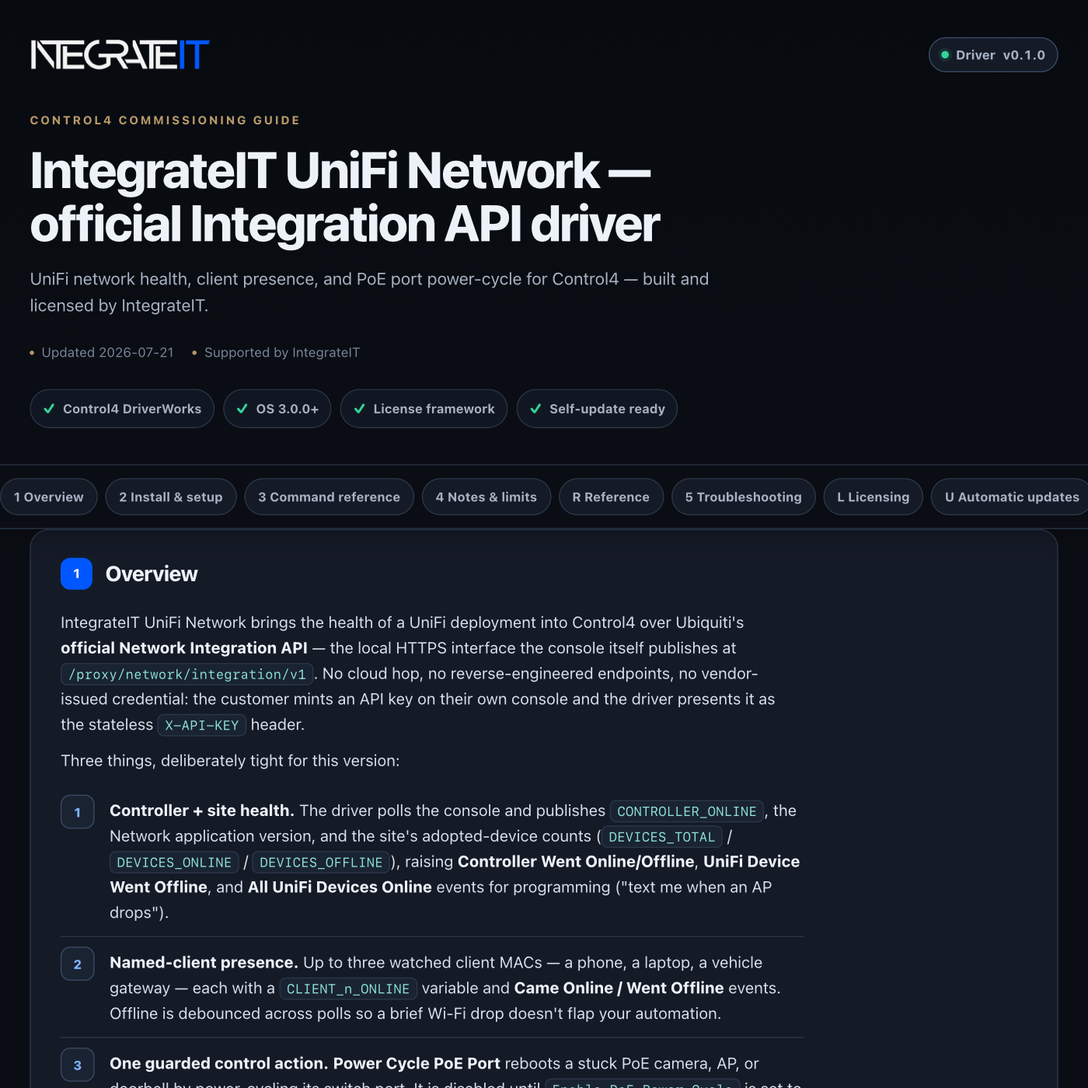
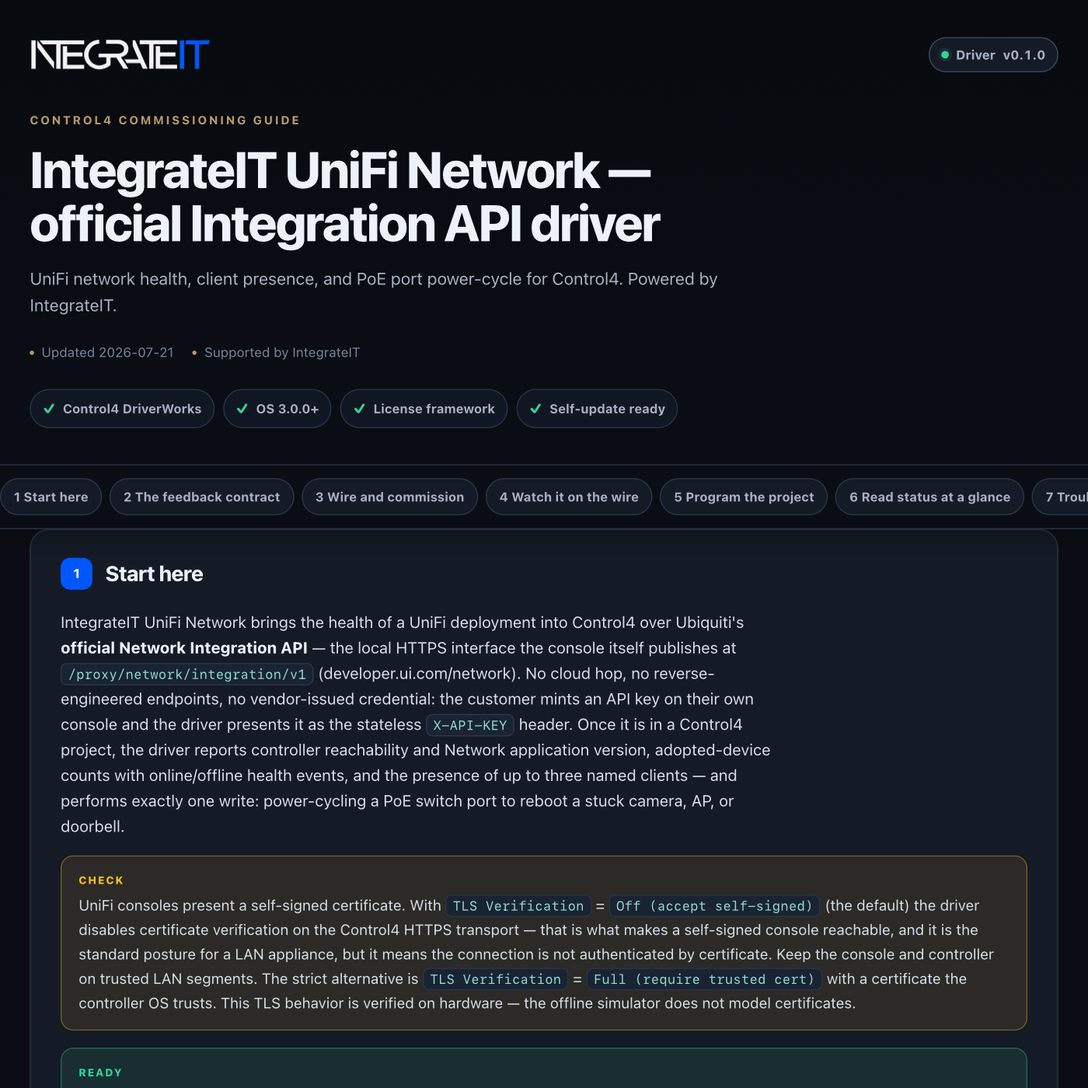
control4: publish driver channel (integrateit_unifi_network 0.1.1)

diff --git a/control4/integrateit_unifi_network/documentation.html b/control4/integrateit_unifi_network/documentation.html
@@ -179,13 +179,13 @@ td code{white-space:normal}
     <div class="wrap">
       <div class="brandbar">
[1 lines of base64/hex data omitted]
-        <span class="version"><span class="word">Driver</span> v0.1.0</span>
+        <span class="version"><span class="word">Driver</span> v0.1.1</span>
       </div>
       <p class="eyebrow">Control4 commissioning guide</p>
       <h1>IntegrateIT UniFi Network — official Integration API driver</h1>
-      <p class="sub">UniFi network health, client presence, and PoE port power-cycle for Control4 — built and licensed by IntegrateIT.</p>
+      <p class="sub">UniFi network health, client presence, and PoE port power-cycle for Control4. Powered by IntegrateIT.</p>
       <div class="meta">
-        <span>Updated 2026-07-21</span>
+        <span>Updated 2026-07-26</span>
         <span>Supported by IntegrateIT</span>
       </div>
       <div class="readiness" aria-label="Driver capabilities">
@@ -198,56 +198,130 @@ td code{white-space:normal}
   </header>
 
   <div class="toc-wrap">
-    <nav class="toc wrap" aria-label="Documentation sections"><a href="#overview">1 Overview</a><a href="#install">2 Install &amp; setup</a><a href="#commands">3 Command reference</a><a href="#notes">4 Notes &amp; limits</a><a href="#reference">R Reference</a><a href="#troubleshooting">5 Troubleshooting</a><a href="#licensing">L Licensing</a><a href="#updates">U Automatic updates</a><a href="#changelog">V Version history</a></nav>
+    <nav class="toc wrap" aria-label="Documentation sections"><a href="#overview">1 Start here</a><a href="#feedback">2 The feedback contract</a><a href="#setup">3 Wire and commission</a><a href="#protocol">4 Watch it on the wire</a><a href="#programming">5 Program the project</a><a href="#status">6 Read status at a glance</a><a href="#troubleshooting">7 Troubleshoot methodically</a><a href="#trust">8 Ownership, privacy, and licensing</a><a href="#reference">R Reference</a><a href="#licensing">L Licensing</a><a href="#updates">U Automatic updates</a><a href="#changelog">V Version history</a></nav>
   </div>
 
   <main class="wrap">
     <section class="card" id="overview" data-card="overview">
-  <h2><span class="n">1</span> Overview</h2>
-  <p>IntegrateIT UniFi Network brings the health of a UniFi deployment into Control4 over Ubiquiti's <b>official Network Integration API</b> — the local HTTPS interface the console itself publishes at <code>/proxy/network/integration/v1</code>. No cloud hop, no reverse-engineered endpoints, no vendor-issued credential: the customer mints an API key on their own console and the driver presents it as the stateless <code>X-API-KEY</code> header.</p>
-  <p>Three things, deliberately tight for this version:</p>
-  <ol class="steps">
-    <li><b>Controller + site health.</b> The driver polls the console and publishes <code>CONTROLLER_ONLINE</code>, the Network application version, and the site's adopted-device counts (<code>DEVICES_TOTAL</code> / <code>DEVICES_ONLINE</code> / <code>DEVICES_OFFLINE</code>), raising <b>Controller Went Online/Offline</b>, <b>UniFi Device Went Offline</b>, and <b>All UniFi Devices Online</b> events for programming ("text me when an AP drops").</li>
-    <li><b>Named-client presence.</b> Up to three watched client MACs — a phone, a laptop, a vehicle gateway — each with a <code>CLIENT_n_ONLINE</code> variable and <b>Came Online / Went Offline</b> events. Offline is debounced across polls so a brief Wi-Fi drop doesn't flap your automation.</li>
-    <li><b>One guarded control action.</b> <b>Power Cycle PoE Port</b> reboots a stuck PoE camera, AP, or doorbell by power-cycling its switch port. It is disabled until <code>Enable PoE Power Cycle</code> is set to Yes, and it is the only write this driver ever performs.</li>
-  </ol>
+  <h2><span class="n">1</span> Start here</h2>
+  <p>IntegrateIT UniFi Network brings the health of a UniFi deployment into Control4 over Ubiquiti's <b>official Network Integration API</b> — the local HTTPS interface the console itself publishes at <code>/proxy/network/integration/v1</code> (developer.ui.com/network). No cloud hop, no reverse-engineered endpoints, no vendor-issued credential: the customer mints an API key on their own console and the driver presents it as the stateless <code>X-API-KEY</code> header. Once it is in a Control4 project, the driver reports controller reachability and Network application version, adopted-device counts with online/offline health events, and the presence of up to three named clients — and performs exactly one write: power-cycling a PoE switch port to reboot a stuck camera, AP, or doorbell.</p>
+  <div class="note warn">UniFi consoles present a self-signed certificate. With <code>TLS Verification</code> = <code>Off (accept self-signed)</code> (the default) the driver disables certificate verification on the Control4 HTTPS transport — that is what makes a self-signed console reachable, and it is the standard posture for a LAN appliance, but it means the connection is not authenticated by certificate. Keep the console and controller on trusted LAN segments. The strict alternative is <code>TLS Verification</code> = <code>Full (require trusted cert)</code> with a certificate the controller OS trusts. This TLS behavior is verified on hardware — the offline simulator does not model certificates.</div>
+  <div class="note good">Ready for controlled commissioning. The package, Lua runtime, Integration API framing, health and presence polling, pagination safety, the PoE write's guards, the license gate, and this documentation pass automated QA in the Control4 API simulator. A qualified dealer must still complete a fresh install and observe real reachability, device-health, presence, and PoE behavior against a physical UniFi console and controller — certificate handling in particular is a hardware-acceptance item. This driver has not been bench-tested on hardware.</div>
+  <p><b>What you get</b></p>
+  <ul>
+    <li>Controller reachability and Network application version from <code>GET /info</code>, with <b>Controller Went Online / Went Offline</b> events and a <code>CONTROLLER_ONLINE</code> variable</li>
+    <li>Site device health — <code>DEVICES_TOTAL</code> / <code>DEVICES_ONLINE</code> / <code>DEVICES_OFFLINE</code> counts — with <b>UniFi Device Went Offline</b> and <b>All UniFi Devices Online</b> edge events</li>
+    <li>Presence for up to three watched client MACs, each a <code>CLIENT_n_ONLINE</code> variable with <b>Came Online / Went Offline</b> events, debounced against brief Wi-Fi drops</li>
+    <li>One guarded control action, <b>Power Cycle PoE Port</b> — off by default, license-gated, and the only write this driver ever performs</li>
+    <li>Setup actions on the Actions tab: <b>Test Connection</b>, <b>List Sites</b>, <b>List Devices</b>, <b>List Clients</b>, <b>Print Configuration</b></li>
+    <li>A LAN-only destination safeguard, and an API key that lives only in the request header and is never written to the log</li>
+  </ul>
 </section>
 
-<section class="card" id="install" data-card="install">
-  <h2><span class="n">2</span> Install &amp; setup</h2>
+<section class="card" id="feedback" data-card="feedback">
+  <h2><span class="n">2</span> The feedback contract</h2>
+  <p>This driver reports what the console tells it and nothing more. State is polled, not pushed — the Integration API documents no push channel — so everything updates on the <code>Poll Interval (s)</code> (default 30 s), never instantly.</p>
+  <ul>
+    <li><b>Reachability is owned by <code>/info</code>.</b> Every cycle <code>GET /info</code> decides <code>CONTROLLER_ONLINE</code>; the heavier device and client polls only *confirm* reachability and never mark the console offline. Without that split, a console that answers <code>/info</code> but times out on the larger device list would flap <b>Controller Went Online / Offline</b> every poll.</li>
+    <li><b>Presence is asymmetric.</b> A watched MAC seen on the clients page reads online immediately. Offline is debounced: the client must be absent for <code>Offline After (polls)</code> consecutive polls before <b>Client n Went Offline</b> fires, so a phone's Wi-Fi power-save nap does not flap your automation.</li>
+    <li><b>One page per poll, and the driver holds rather than guesses.</b> Device and client scans read up to 200 entries (<code>limit=200</code>) — one page. On a site whose list exceeds one page, truncation is detected from the response envelope (<code>offset + count &lt; totalCount</code>) and the driver refuses to invent state: a watched client absent from the fetched page is <b>held at its last-known presence</b> (never false-declared offline), and device-health change events are suppressed until a full page is scanned again. The deliberate trade-off on such large sites is that a watched client which *truly* leaves may not raise <b>Went Offline</b> until it once again fits inside a single page. A client found on the page is trusted present regardless of truncation.</li>
+    <li><b>Reachability announces itself; the counters adopt silently.</b> The first <code>/info</code> answer after a driver start is a real transition, so it does fire <b>Controller Went Online</b> (or <b>Controller Went Offline</b>) — expect one on every driver reload. The offline-device count and each watched slot's presence are adopted from their first observation *without* an event, so no device-health or presence event phantom-fires at boot. Clearing a watched MAC drops its <code>CLIENT_n_ONLINE</code> to 0 and forgets its learned state.</li>
+  </ul>
+</section>
+
+<section class="card" id="setup" data-card="setup">
+  <h2><span class="n">3</span> Wire and commission</h2>
   <ol class="steps">
-    <li>On the customer's UniFi console, open the <b>Network</b> app → <b>Settings → Control Plane → Integrations</b> and generate an <b>API key</b>. The key inherits the permissions of the admin who creates it — a read-mostly admin is a good choice if you will not use the PoE action.</li>
-    <li>Add this driver, then enter <code>Console IP Address</code> (reserve it in DHCP), <code>Console Port</code> (443 on UniFi OS hardware, <b>11443 on UniFi OS Server</b>), and the <code>API Key</code>.</li>
-    <li>Run <b>Test Connection</b> — it prints the Network application version on success.</li>
+    <li>On the customer's UniFi console, open the <b>Network</b> app → <b>Settings → Control Plane → Integrations</b> and generate an <b>API key</b>. The key inherits the permissions of the admin who creates it — a read-mostly admin is a good choice unless you intend to use the PoE action.</li>
+    <li>Add <b>IntegrateIT UniFi Network</b> to the project. Enter <code>Console IP Address</code> (reserve it in DHCP), <code>Console Port</code> (<b>443</b> on UniFi OS hardware, <b>11443</b> on UniFi OS Server), and paste the <code>API Key</code>.</li>
+    <li>Run <b>Test Connection</b> from the Actions tab — on success it prints <code>OK - Network application &lt;version&gt;</code> and fills <code>Controller Version</code>.</li>
     <li>Run <b>List Sites</b> and paste the site's id into <code>Site ID</code> (most consoles have exactly one).</li>
-    <li>Optionally set <code>Watched Client 1..3 MAC</code> (run <b>List Clients</b> to find MACs) and tune <code>Poll Interval (s)</code> / <code>Offline After (polls)</code>.</li>
-    <li>For the PoE action: run <b>List Devices</b>, paste the switch's id into <code>PoE Switch Device ID</code>, set <code>PoE Port Number</code>, and flip <code>Enable PoE Power Cycle</code> to Yes.</li>
-    <li>Optionally enter a <code>License Key</code> (see Licensing) — the driver runs in Lenient mode without one.</li>
+    <li>Optionally set <code>Watched Client 1..3 MAC</code> (run <b>List Clients</b> to find MACs — colon, dash, or bare-hex forms all normalize) and tune <code>Poll Interval (s)</code> / <code>Offline After (polls)</code>.</li>
+    <li>For the PoE action only: run <b>List Devices</b>, paste the switch's id into <code>PoE Switch Device ID</code>, set <code>PoE Port Number</code>, and flip <code>Enable PoE Power Cycle</code> to Yes.</li>
+    <li>Optionally enter a <code>License Key</code> — the driver runs in Lenient mode without one (see Ownership).</li>
   </ol>
+  <p>The install proves itself when <code>Device Status</code> reads <code>Online — N/M devices up</code>, and — if you set a watched MAC — its <code>CLIENT_n_ONLINE</code> variable tracks the real device coming and going.</p>
+  <div class="note">API keys exist only on <b>UniFi OS consoles</b> (UDM / UDR / UCG / UX / UniFi OS Server). The legacy self-hosted Java controller has no Integration API and cannot be used, by Ubiquiti's design.</div>
 </section>
 
-<section class="card" id="commands" data-card="commands">
-  <h2><span class="n">3</span> Command reference</h2>
-  <ul>
-    <li><b>Power Cycle PoE Port</b> — sends the official <code>POWER_CYCLE</code> port action to the configured switch/port. Requires <code>Enable PoE Power Cycle</code> = Yes and a valid license; fires <b>PoE Port Power Cycled</b> on success.</li>
-    <li><b>Refresh Now</b> — polls the console immediately instead of waiting for the next interval.</li>
-  </ul>
-  <p><b>Events:</b> *Controller Went Online/Offline*, *UniFi Device Went Offline*, *All UniFi Devices Online*, *Client 1–3 Came Online / Went Offline*, *PoE Port Power Cycled*. <b>Variables:</b> <code>CONTROLLER_ONLINE</code>, <code>DEVICES_TOTAL</code>, <code>DEVICES_ONLINE</code>, <code>DEVICES_OFFLINE</code>, <code>CLIENT_1_ONLINE</code>, <code>CLIENT_2_ONLINE</code>, <code>CLIENT_3_ONLINE</code>.</p>
+<section class="card" id="protocol" data-card="protocol">
+  <h2><span class="n">4</span> Watch it on the wire</h2>
+  <p>Turn on <code>Debug Mode</code> = Print and every HTTP call the driver makes to the console prints to the Lua output window as <b>method + path only</b> — no host, no headers, no body. The <code>X-API-KEY</code> header carries the key and is never shown, so the log is safe to share. These are the only console endpoints the driver ever touches, all under <code>/proxy/network/integration/v1</code> (the shared license and update check-ins go to the IntegrateIT services named in the reference below, never to the console):</p>
+  <table>
+    <tr><th>Debug line</th><th>Call</th><th>When</th></tr>
+    <tr><td><code>GET /info</code></td><td>Controller reachability + Network version</td><td>Every poll; Test Connection</td></tr>
+    <tr><td><code>GET /sites</code></td><td>Enumerate site ids</td><td>List Sites</td></tr>
+    <tr><td><code>GET /sites/&lt;id&gt;/devices?limit=200</code></td><td>Device-health roll-up</td><td>Every poll (Site ID set); List Devices</td></tr>
+    <tr><td><code>GET /sites/&lt;id&gt;/clients?limit=200</code></td><td>Watched-client presence</td><td>Every poll (a MAC set); List Clients</td></tr>
+    <tr><td><code>POST .../interfaces/ports/&lt;idx&gt;/actions</code></td><td>body <code>{"action":"POWER_CYCLE"}</code></td><td>Power Cycle PoE Port</td></tr>
+  </table>
+  <p>A non-2xx reply is surfaced, never swallowed: <code>401</code> / <code>403</code> set <code>Device Status</code> to <code>Auth failed (HTTP …) - check the API Key</code> on any call. Any other code is reported by the call that made it — <b>Test Connection</b> prints <code>FAILED: HTTP …</code> and sets <code>Status</code>, and the PoE write sets <code>Status</code> to <code>PoE cycle failed (HTTP …)</code>. A background poll that returns some other error leaves the last good <code>Device Status</code> standing rather than overwriting it with a transient, so check <code>Debug Mode</code> = Print when a poll misbehaves quietly. A dead transfer (code 0) is what marks the console offline — a bare-table OS response is normalized so it can never be misread as code 0 and pin a live console to offline. The legacy <code>/api/s/&lt;site&gt;/…</code> Controller API is community-reverse-engineered and is deliberately never called.</p>
 </section>
 
-<section class="card" id="notes" data-card="notes">
-  <h2><span class="n">4</span> Notes &amp; limits</h2>
+<section class="card" id="programming" data-card="programming">
+  <h2><span class="n">5</span> Program the project</h2>
+  <p><b>Commands:</b> <b>Power Cycle PoE Port</b> and <b>Refresh Now</b> (poll the console immediately instead of waiting for the interval; also on the Actions tab).</p>
+  <table>
+    <tr><th>Event</th><th>Fires when</th></tr>
+    <tr><td><code>Controller Went Online</code> / <code>Controller Went Offline</code></td><td>The console became reachable / stopped responding</td></tr>
+    <tr><td><code>UniFi Device Went Offline</code></td><td>The site's offline adopted-device count rose above zero</td></tr>
+    <tr><td><code>All UniFi Devices Online</code></td><td>The offline count returned to zero</td></tr>
+    <tr><td><code>Client 1..3 Came Online</code> / <code>Went Offline</code></td><td>A watched MAC appeared / was absent for <code>Offline After (polls)</code> polls</td></tr>
+    <tr><td><code>PoE Port Power Cycled</code></td><td>The console accepted the power-cycle action (2xx)</td></tr>
+  </table>
+  <table>
+    <tr><th>Variable</th><th>Type</th><th>Meaning</th></tr>
+    <tr><td><code>CONTROLLER_ONLINE</code></td><td>BOOL</td><td>Console reachable on the last <code>/info</code> poll</td></tr>
+    <tr><td><code>DEVICES_TOTAL</code> / <code>DEVICES_ONLINE</code> / <code>DEVICES_OFFLINE</code></td><td>STRING</td><td>Adopted-device counts from the last device page fetched — on a site larger than one page they describe that page, not the whole site</td></tr>
+    <tr><td><code>CLIENT_1_ONLINE</code> … <code>CLIENT_3_ONLINE</code></td><td>BOOL</td><td>Watched-client presence, one per slot</td></tr>
+  </table>
+  <p>Three ways these wire into Composer programming:</p>
   <ul>
-    <li><b>Official API only.</b> This driver speaks the published Integration API (<code>/proxy/network/integration/v1</code>) exclusively. The legacy <code>/api/s/&lt;site&gt;/…</code> Controller API is community-reverse-engineered and is deliberately not used. API keys exist only on <b>UniFi OS consoles</b> (UDM / UDR / UCG / UX / UniFi OS Server) — the old self-hosted Java controller cannot be used, by Ubiquiti's design.</li>
-    <li><b>TLS, honestly.</b> UniFi consoles present a self-signed certificate. By default (<code>TLS Verification</code> = Off) the driver disables certificate verification on the Control4 HTTPS transport — that is what makes a self-signed console reachable, and it is the standard posture for LAN appliances. Certificate pinning is not offered because the Control4 URL API has no pin option; the strict alternative is <code>TLS Verification</code> = Full with a console certificate the controller OS trusts. TLS behavior is verified on hardware — the offline simulator does not model certificates.</li>
-    <li><b>Polled, not pushed.</b> The Integration API documents no push channel. Health and presence update on the poll interval (default 30 s); watched-client offline additionally waits <code>Offline After (polls)</code> consecutive misses.</li>
-    <li><b>One page per poll.</b> Device and client scans read up to 200 entries. On a site with more than one page of clients or devices, the driver holds state instead of guessing: a watched client absent from the fetched page is kept at its last-known presence (never falsely reported offline), and device-health change events wait until a full page is scanned. On such large sites the cost is that a watched client which truly leaves may not raise Went Offline until it fits inside a single page.</li>
-    <li>The <code>API Key</code> is treated as a secret: it is sent only in the request header and is never written to the Lua log, even with Debug Mode on.</li>
-    <li>The LAN safeguard refuses a non-private console address unless <code>Allow Non-LAN Console</code> is explicitly set to Yes.</li>
+    <li><b>When <code>UniFi Device Went Offline</code> fires → text me "an AP or switch just dropped".</b> The health roll-up turns a whole rack's supervision into one event.</li>
+    <li><b>When <code>Client 1 Went Offline</code> fires and no other watched client is online → run an "everyone left" macro</b> (arm, setback, lights off). Because offline is debounced and truncation-safe, the macro will not misfire on a brief Wi-Fi nap or a large-site page miss.</li>
+    <li><b>When <code>Controller Went Offline</code> fires → escalate.</b> The gateway that runs the network going dark is worth a push notification of its own.</li>
   </ul>
+  <div class="note warn"><b>Power Cycle PoE Port</b> literally cuts and restores power to whatever the port feeds. The powered device — camera, AP, doorbell — reboots and is offline for its full boot time. Never target a port that carries the console's own uplink or a device you cannot afford to drop, and think hard before wiring the action to an unattended trigger.</div>
+</section>
+
+<section class="card" id="status" data-card="status">
+  <h2><span class="n">6</span> Read status at a glance</h2>
+  <table>
+    <tr><th>Property / variable</th><th>Healthy reading</th><th>What it means otherwise</th></tr>
+    <tr><td><code>Device Status</code></td><td><code>Online — N/M devices up</code></td><td><code>No Console IP set</code> / <code>No API Key set</code> / <code>No Site ID set - run List Sites</code>; <code>Blocked: …</code> = the LAN guard refused the address; <code>Auth failed (HTTP …)</code> = key rejected</td></tr>
+    <tr><td><code>Controller Version</code></td><td>The Network app version, e.g. <code>9.0.108</code></td><td><code>Unknown</code> until a poll or Test Connection succeeds</td></tr>
+    <tr><td><code>CONTROLLER_ONLINE</code></td><td><code>1</code></td><td><code>0</code> means the last <code>/info</code> returned code 0 (unreachable)</td></tr>
+    <tr><td><code>DEVICES_OFFLINE</code></td><td><code>0</code></td><td>Above zero = an adopted switch, AP, or gateway is down; this count drives the health events, but only from a complete (non-truncated) page</td></tr>
+    <tr><td><code>CLIENT_n_ONLINE</code></td><td>Tracks the real device</td><td>Holds last-known while the clients list is truncated; <code>0</code> after a cleared MAC</td></tr>
+    <tr><td><code>Status</code></td><td><code>Idle</code>, or the last <b>Test Connection</b> / PoE result</td><td><code>Connected (Network …)</code> after a good test; <code>PoE cycle failed (HTTP …)</code> or a guard message names why a power-cycle did nothing</td></tr>
+  </table>
+  <p><b>Print Configuration</b> writes the console target, whether the API key is set (character count only, never the value), site id, TLS mode, poll cadence, each watched slot's presence, and the PoE configuration to the Lua output window. It never prints the key.</p>
+</section>
+
+<section class="card" id="troubleshooting" data-card="troubleshooting">
+  <h2><span class="n">7</span> Troubleshoot methodically</h2>
+  <table>
+    <tr><th>Symptom</th><th>Likely cause</th><th>Fix</th></tr>
+    <tr><td>Nothing updates; <code>Device Status</code> never leaves <code>Unknown</code></td><td>Console unreachable, wrong IP/port, or not a UniFi OS console</td><td>Run <b>Test Connection</b>; verify <code>Console IP Address</code> and <code>Console Port</code> (443 hardware, 11443 UniFi OS Server). A dead transfer marks the console offline.</td></tr>
+    <tr><td><code>Auth failed (HTTP 401/403)</code></td><td>Key rejected or lacks permission</td><td>Re-generate the key in Network → Settings → Control Plane → Integrations and paste it exactly.</td></tr>
+    <tr><td><code>Device Status</code> reads <code>Blocked: …</code></td><td>Console address is not on the LAN</td><td>Use the console's LAN IP, or set <code>Allow Non-LAN Console</code> = Yes if you truly mean to route to it.</td></tr>
+    <tr><td>Watched client flaps online/offline</td><td>Aggressive phone Wi-Fi power-saving</td><td>Raise <code>Offline After (polls)</code> — each unit is one poll interval of absence before offline is declared.</td></tr>
+    <tr><td>A watched client that left never fires <code>Went Offline</code></td><td>Its clients list exceeds one page (200)</td><td>Expected on large sites: off-page absence is held as last-known, not offline. It resolves when the client fits within a single page again.</td></tr>
+    <tr><td><b>Power Cycle PoE Port</b> does nothing</td><td>A guard blocked it</td><td>Check <code>Enable PoE Power Cycle</code> = Yes, <code>PoE Switch Device ID</code> + <code>PoE Port Number</code> are set, and <code>License Status</code>; read <code>Status</code> for the exact reason.</td></tr>
+    <tr><td>PoE cycle returns an HTTP error</td><td>Port delivers no PoE, or firmware refuses the action</td><td>Confirm the port powers the device and the switch firmware supports the port action.</td></tr>
+  </table>
+  <div class="note">Turn on <code>Debug Mode</code> = Print to watch every HTTP call (method + path only — the API key is never shown) in the Lua output window.</div>
+  <p>If a symptom survives every check above, run <b>Print Configuration</b>, capture the Lua output window, and send it to support@integrateit.tech · (913) 804-7575.</p>
+</section>
+
+<section class="card" id="trust" data-card="trust">
+  <h2><span class="n">8</span> Ownership, privacy, and licensing</h2>
+  <p>This package is an original IntegrateIT implementation of Ubiquiti's published UniFi Network Integration API (developer.ui.com/network). It bundles no Ubiquiti runtime, source code, brand assets, trial system, or license. UniFi and Ubiquiti are trademarks of Ubiquiti Inc.; IntegrateIT is not affiliated with Ubiquiti, and this driver is not a Ubiquiti product. Driver engineering, Control4 integration, documentation, QA, licensing, updates, and support are provided by IntegrateIT.</p>
+  <p>Nothing leaves the LAN. The driver talks only to the console IP you configure, over local HTTPS, and a destination safeguard refuses a public or invalid address unless <code>Allow Non-LAN Console</code> is explicitly set to Yes. The <code>API Key</code> lives only in the <code>X-API-KEY</code> request header — it is never placed in a URL and never written to the Lua log, even with Debug on. No device data, customer identity, or project identity is sent to any vendor cloud; the shared IntegrateIT license and update services use the controller identity, driver slug, version, configured license key, and update channel as documented in the reference below.</p>
+  <p>Lenient mode (the default) allows commissioning without an activated key and keeps <code>License Status</code> visible; polling and monitoring always run. Strict mode blocks the one control path — <b>Power Cycle PoE Port</b> — until the Ops Portal has minted and validated a key for that controller; reading health and presence is never gated. Installing this package does not itself mint or activate a controller license.</p>
 <section class="card" id="reference" data-card="reference">
   <h2><span class="n">R</span> Reference</h2>
-  <p>Generated from the driver manifest at build time — always matches this build (v0.1.0).</p>
+  <p>Generated from the driver manifest at build time — always matches this build (v0.1.1).</p>
   <h3>Properties</h3>
   <table>
     <tr><th>Property</th><th>Type</th><th>Default</th><th>Description</th></tr>
@@ -321,20 +395,6 @@ td code{white-space:normal}
   </table>
 </section>
 </section>
-
-<section class="card" id="troubleshooting" data-card="troubleshooting">
-  <h2><span class="n">5</span> Troubleshooting</h2>
-  <table>
-    <tr><th>Symptom</th><th>Likely cause</th><th>Fix</th></tr>
-    <tr><td>"Auth failed (HTTP 401/403)"</td><td>Key rejected or lacks permission</td><td>Re-generate the key in Network → Settings → Control Plane → Integrations; paste it exactly.</td></tr>
-    <tr><td>"Connection failed" on Test Connection</td><td>Wrong port or not a UniFi OS console</td><td>443 on UniFi OS hardware, 11443 on UniFi OS Server. The legacy Java controller has no Integration API.</td></tr>
-    <tr><td><code>Device Status</code> reads "Blocked: …"</td><td>Console address is not on the LAN</td><td>Use the console's LAN IP, or set <code>Allow Non-LAN Console</code> = Yes if you really mean to route to it.</td></tr>
-    <tr><td>Watched client flaps online/offline</td><td>Aggressive phone Wi-Fi power-saving</td><td>Raise <code>Offline After (polls)</code> (each unit = one poll interval of absence).</td></tr>
-    <tr><td>Power Cycle PoE Port does nothing</td><td>Guard or license</td><td>Check <code>Enable PoE Power Cycle</code> = Yes, <code>PoE Switch Device ID</code> + port are set, and <code>License Status</code>.</td></tr>
-    <tr><td>PoE cycle returns an HTTP error</td><td>Port has no PoE, or firmware refuses</td><td>Confirm the port powers the device and the switch firmware supports the port action.</td></tr>
-  </table>
-  <div class="note">Turn on <code>Debug Mode → Print</code> to watch every HTTP call (method + path only — the API key is never shown) in the Lua output window.</div>
-</section>
 <section class="card" id="licensing" data-card="licensing">
   <h2><span class="n">L</span> Licensing</h2>
   <p>This driver is licensed <b>per controller</b>. Each license key locks to one controller's
@@ -382,7 +442,9 @@ td code{white-space:normal}
     <section class="card" id="changelog" data-card="changelog">
   <h2><span class="n">V</span> Version history</h2>
   <div class="chg">
-    <div class="rel"><b>v0.1.0</b> <span class="pill green">current</span><span class="d">2026-07-21</span>
+    <div class="rel"><b>v0.1.1</b> <span class="pill green">current</span><span class="d">2026-07-26</span>
+      <ul><li>Documentation rebuilt to the IntegrateIT commissioning-guide standard: uniform sections, honest contracts, verified claim-by-claim against the code.</li></ul></div>
+    <div class="rel"><b>v0.1.0</b><span class="d">2026-07-21</span>
       <ul><li>Initial release against the official UniFi Network Integration API (local HTTPS, `/proxy/network/integration/v1`, stateless `X-API-KEY` auth minted by the customer on their own UniFi OS console).</li><li>Controller reachability + Network application version (`GET /info`), with Controller Went Online / Offline events.</li><li>Site device health counts (total / online / offline) from the site device list, with UniFi Device Went Offline and All UniFi Devices Online edge events.</li><li>Named-client presence for up to three watched MACs (colon / dash / bare-hex accepted), debounced offline via Offline After (polls); Came Online / Went Offline events per slot.</li><li>One guarded control action: PoE port power-cycle (`POST .../interfaces/ports/&lt;idx&gt;/actions` `{"action":"POWER_CYCLE"}`) — disabled by default, license-gated, LAN-guarded.</li><li>TLS: self-signed console accepted by default (C4:url ssl_verify_* off, hardware-verified); optional Full verification. LAN-only destination safeguard; the API key is never written to the log.</li><li>Pagination safety (pre-release adversarial QA): the Integration API paginates and the driver reads one page (`limit=200`) per poll. A watched client on a site whose client list spans more than one page is now held at its last-known presence instead of being false-declared offline when it lands on a page the driver did not fetch; device-health change events are likewise held until a full page is scanned. Truncation is detected from the envelope (`offset+count &lt; totalCount`). Prevents phantom `Client N Went Offline` and `All UniFi Devices Online` events on large sites.</li></ul></div>
   </div>
 </section>

diff --git a/control4/integrateit_unifi_network/CHANGELOG.md b/control4/integrateit_unifi_network/CHANGELOG.md
@@ -1,5 +1,8 @@
 # Changelog — IntegrateIT UniFi Network
 
+## [0.1.1] - 2026-07-26
+- Documentation rebuilt to the IntegrateIT commissioning-guide standard: uniform sections, honest contracts, verified claim-by-claim against the code.
+
 ## [0.1.0] - 2026-07-21
 - Initial release against the official UniFi Network Integration API (local HTTPS, `/proxy/network/integration/v1`, stateless `X-API-KEY` auth minted by the customer on their own UniFi OS console).
 - Controller reachability + Network application version (`GET /info`), with Controller Went Online / Offline events.
